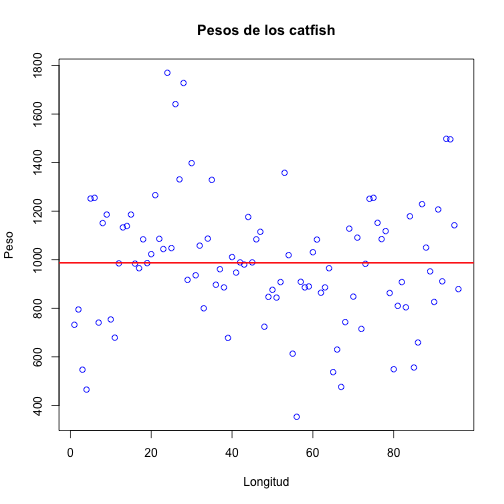
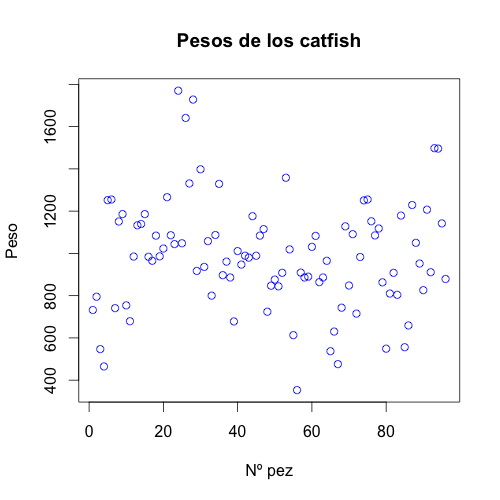
Fixed xlab='Nº pez' in slide 23

diff --git a/RStudio.html b/RStudio.html
@@ -532,7 +532,7 @@ catfish.weight &lt;-<span class="st"> </span>ddt$weight[ddt$species_name ==<span
 <ul>
 <li>En primer lugar, vamos a añadir color, unas nuevas etiquetas en los ejes (<code>xlab</code>, <code>ylab</code>) y el título principal (<code>main</code>), además de una línea en el eje Y que indica la media de los valores.</li>
 </ul>
-<pre class="sourceCode r"><code class="sourceCode r"><span class="kw">plot</span>(catfish.weight, <span class="dt">col=</span><span class="st">&quot;blue&quot;</span>, <span class="dt">xlab=</span><span class="st">&quot;Longitud&quot;</span>, <span class="dt">ylab=</span><span class="st">&quot;Peso&quot;</span>, <span class="dt">main=</span><span class="st">&quot;Pesos de los catfish&quot;</span>)
+<pre class="sourceCode r"><code class="sourceCode r"><span class="kw">plot</span>(catfish.weight, <span class="dt">col=</span><span class="st">&quot;blue&quot;</span>, <span class="dt">xlab=</span><span class="st">&quot;Nº pez&quot;</span>, <span class="dt">ylab=</span><span class="st">&quot;Peso&quot;</span>, <span class="dt">main=</span><span class="st">&quot;Pesos de los catfish&quot;</span>)
 
 <span class="co"># línea horizontal que marca la media de los pesos</span>
 <span class="kw">abline</span>(<span class="kw">mean</span>(catfish.weight), <span class="dv">0</span>, <span class="dt">col=</span><span class="st">&quot;red&quot;</span>, <span class="dt">lwd=</span><span class="dv">2</span>)</code></pre>

diff --git a/RStudio.md b/RStudio.md
@@ -437,7 +437,7 @@ plot(catfish.weight)
 
 
 ```r
-plot(catfish.weight, col="blue", xlab="Longitud", ylab="Peso", main="Pesos de los catfish")
+plot(catfish.weight, col="blue", xlab="Nº pez", ylab="Peso", main="Pesos de los catfish")
 
 # línea horizontal que marca la media de los pesos
 abline(mean(catfish.weight), 0, col="red", lwd=2)
